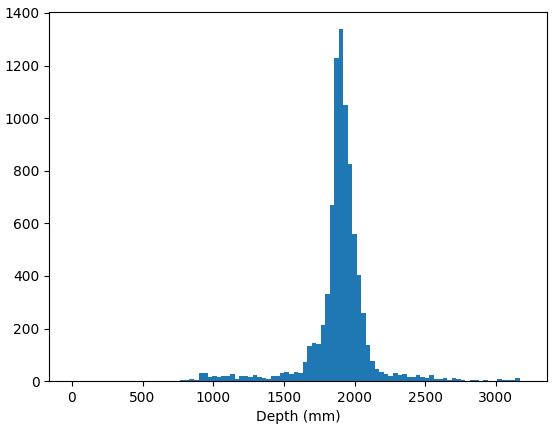
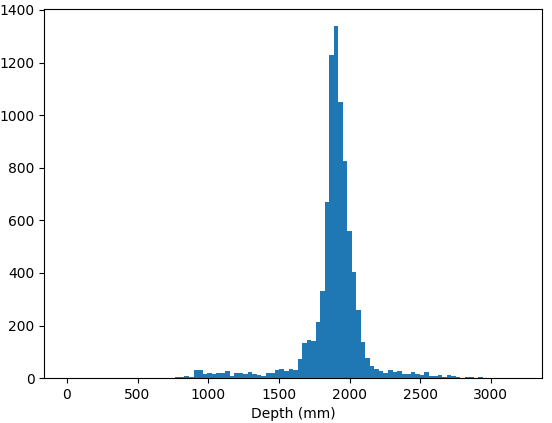
README修正

Changed region(s): [[0.0, 0.0, 0.9855, 1.0], [0.9855, 0.0307, 1.0, 0.8913], [0.6467, 0.6454, 0.6775, 0.8605]]

diff --git a/README.md b/README.md
@@ -93,8 +93,8 @@ $\overline{a_b} = -42.9284$
 なお、正解距離は1934mmである。
 
 推定距離値の平均値と絶対平均誤差は次のようになった。  
-平均推定距離値（mm）: 2016.4  
-絶対平均誤差（mm）: 1584.3
+平均推定距離値（mm）: 1892.8  
+絶対平均誤差（mm）: 126.0
 
 距離推定結果のヒストグラムを示す。
 ![](resource/histogram.png)
